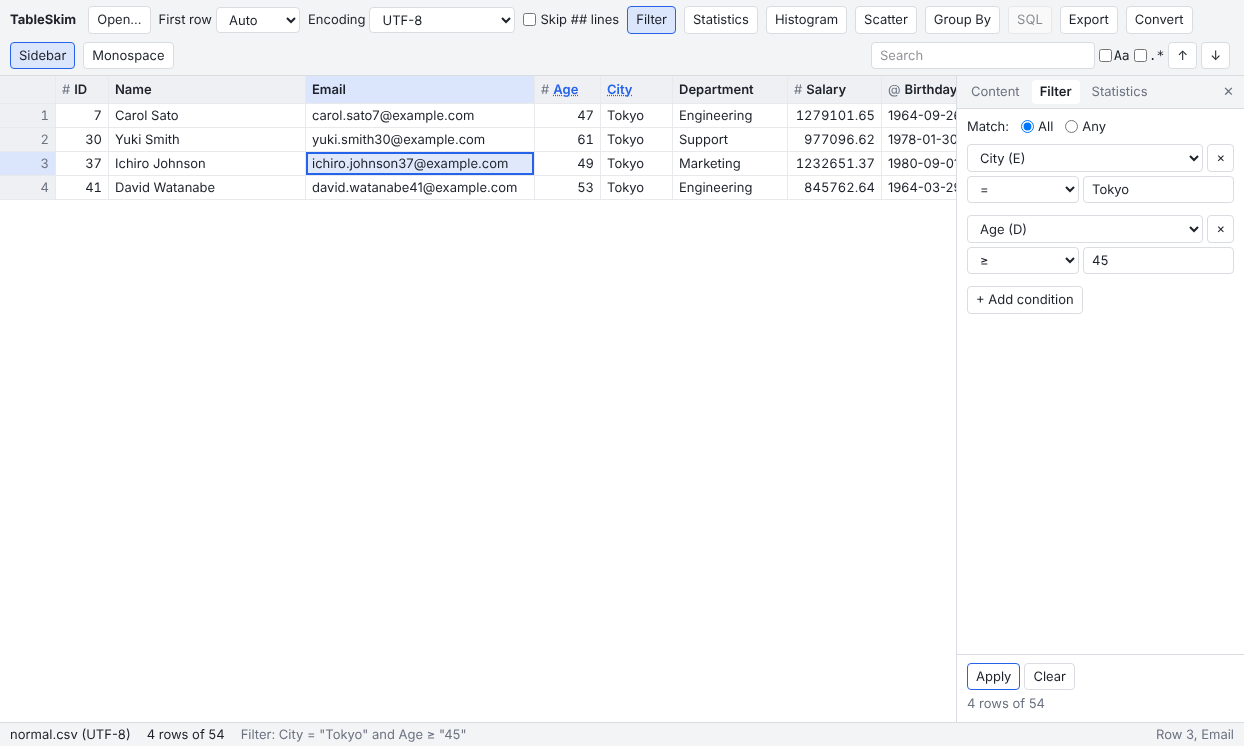
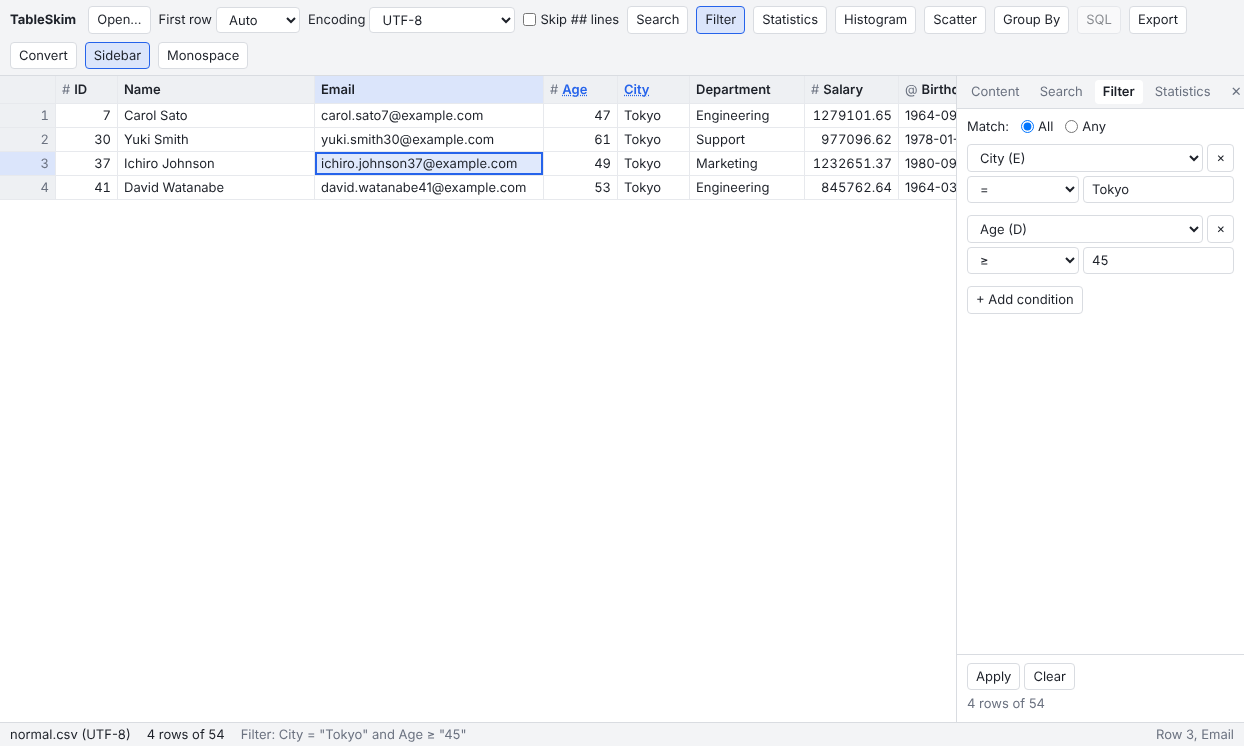
Retake the web app's screenshots for the Search pane
The manual's screenshots of the web app showed the search box that the
toolbar no longer has. They are taken again from the app as it is now,
of the same views at the same size, and the Searching section gets a
screenshot of the Search pane, as the GUI's chapter has.

Claude-Session: https://claude.ai/code/session_0163eN5cgLSoV7K9mvEGnqGU

diff --git a/docs/ja/web.md b/docs/ja/web.md
@@ -124,6 +124,8 @@ Web アプリは静的なファイルだけのフォルダで、`tableskim-<vers
 
 **Search** ボタン（`Ctrl+F`）でサイドバーの Search ペインを開きます。配置は GUI と同じです。文字列を入力し、`Enter` を押すか **Search** をクリックします。
 
+![「watanabe」を検索した Search ペイン](../images/web-search-pane.png)
+
 - 一致したセルがグリッドで強調され、一覧にすべてのヒットの行、列、値が表示されます。ヒットをクリックするとそのセルへ移動し、一覧で矢印キーを押すと次／前のヒットへ移動します。
 - 大文字と小文字を区別せず、セルの中のどこにあっても一致します。**Regex** をチェックすると正規表現（RE2 の構文）で検索します。
 - 検索はバックグラウンドで進み、状態の行に進み具合とヒットの数が表示されます。

diff --git a/docs/en/web.md b/docs/en/web.md
@@ -193,6 +193,8 @@ The operators and how values compare are explained in
 The **Search** button (`Ctrl+F`) opens the Search pane of the sidebar,
 laid out like the GUI's. Type the text and press `Enter` or **Search**.
 
+![The Search pane: the hits of "watanabe"](../images/web-search-pane.png)
+
 - Matching cells are highlighted in the grid, and the list shows the row,
   column and value of every hit. Click a hit to jump to it; the arrow keys
   in the list go on to the next and previous hits.
